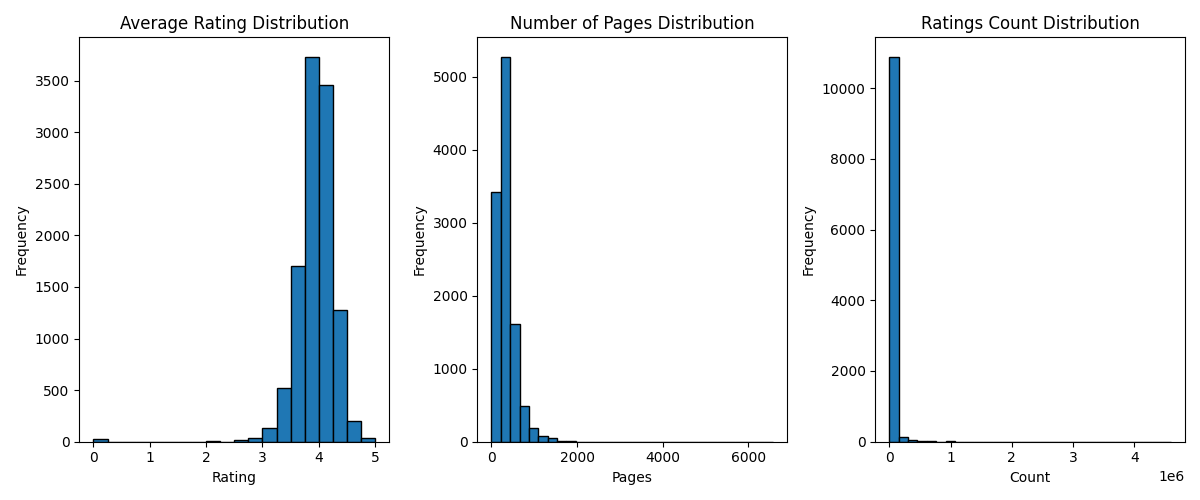
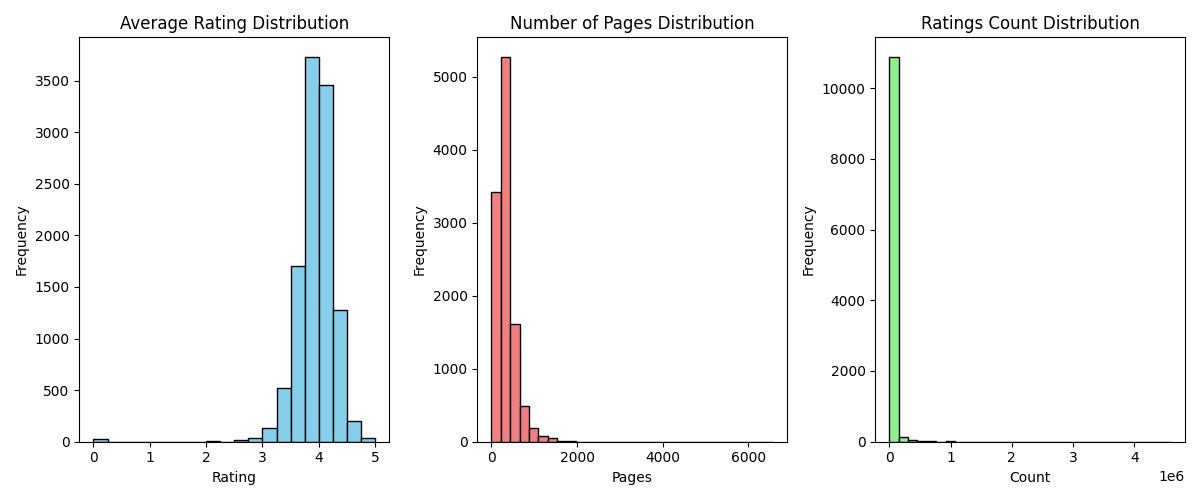
visuals upladed

Changed region(s): [[0.2158, 0.12, 0.3083, 0.9], [0.4008, 0.12, 0.4625, 0.9], [0.74, 0.12, 0.7708, 0.9]]

diff --git a/data_analysis.py b/data_analysis.py
@@ -1,9 +1,7 @@
 import pandas as pd
-import numpy as np
 import matplotlib.pyplot as plt
 import seaborn as sns
 from pathlib import Path
-from scipy import stats
 
 Path('visuals').mkdir(exist_ok=True)
 
@@ -17,174 +15,119 @@ df.columns = df.columns.str.strip()
 
 print("Explanatory Data Analysis - Goodreads Books Dataset")
 
-print("\n Missing Values Analysis")
-
-# Check for 0 values
+# Missing Values Analysis
+print("\nMissing Values Analysis")
 print("\nZero values count:")
 print(df.select_dtypes(include='number').eq(0).sum())
 
 print("\nNaN/Null values count:")
 print(df.isnull().sum())
 
-
+# Histograms Before Cleaning
 plt.figure(figsize=(12, 5))
 
-# Histogram for average_rating
+# Average rating
 plt.subplot(1, 3, 1)
-plt.hist(df['average_rating'], bins=20, edgecolor='black')
+plt.hist(df['average_rating'], bins=20, edgecolor='black', color='skyblue')
 plt.title('Average Rating Distribution')
 plt.xlabel('Rating')
 plt.ylabel('Frequency')
 
-# Histogram for num_pages
+# Number of pages
 plt.subplot(1, 3, 2)
-plt.hist(df['num_pages'], bins=30, edgecolor='black')
+plt.hist(df['num_pages'], bins=30, edgecolor='black', color='lightcoral')
 plt.title('Number of Pages Distribution')
 plt.xlabel('Pages')
 plt.ylabel('Frequency')
 
-# Histogram for ratings_count
+# Ratings count
 plt.subplot(1, 3, 3)
-plt.hist(df['ratings_count'], bins=30, edgecolor='black')
+plt.hist(df['ratings_count'], bins=30, edgecolor='black', color='lightgreen')
 plt.title('Ratings Count Distribution')
 plt.xlabel('Count')
 plt.ylabel('Frequency')
 
 plt.tight_layout()
 plt.savefig('visuals/before_cleaning_distributions.png')
-print("\n Saved: visuals/before_cleaning_distributions.png")
 plt.close()
 
-# Heatmap of zero values Before Cleaning
+# Heatmap of Zero Values Before Cleaning
 plt.figure(figsize=(8, 6))
 sns.heatmap(df.select_dtypes(include='number').eq(0).sum().to_frame(), 
             annot=True, fmt='d', cbar=False, cmap='coolwarm')
 plt.title('Zero Values Heatmap Before Cleaning')
 plt.tight_layout()
 plt.savefig('visuals/zero_values_heatmap.png')
-print("Saved: visuals/zero_values_heatmap.png")
 plt.close()
 
-print("\n Statistical Analysis Before Cleaning")
-
-# 5-number summary for numerical columns
-print("\n5-Number Summary Before Cleaning:")
-print(df[['num_pages', 'average_rating', 'ratings_count']].describe())
-
+# Statistical Analysis Before Cleaning
 num_cols = ['num_pages', 'average_rating', 'ratings_count']
+print("\n5-Number Summary Before Cleaning:")
+print(df[num_cols].describe())
+
 for column in num_cols:
     print(f"\n{column}:")
-    print(f"  Mean: {df[column].mean():.2f}")
-    print(f"  Median: {df[column].median():.2f}")
-    print(f"  Std Dev: {df[column].std():.2f}")
-    print(f"  Skewness: {df[column].skew():.2f}")
-    print(f"  Kurtosis: {df[column].kurtosis():.2f}")
+    print(f"Mean: {df[column].mean():.2f}")
+    print(f"Median: {df[column].median():.2f}")
+    print(f"Std Dev: {df[column].std():.2f}")
+    print(f"Skewness: {df[column].skew():.2f}")
+    print(f"Kurtosis: {df[column].kurtosis():.2f}")
 
-print("\n Outlier Detection")
-
+# Outlier Detection
 def detect_outliers_iqr(data, column):
     Q1 = data[column].quantile(0.25)
     Q3 = data[column].quantile(0.75)
     IQR = Q3 - Q1
     lower_bound = Q1 - 1.5 * IQR
     upper_bound = Q3 + 1.5 * IQR
-
     outliers = data[(data[column] < lower_bound) | (data[column] > upper_bound)]
     return outliers, lower_bound, upper_bound
 
-# Detect Outlier for each column
-for column in ['num_pages', 'ratings_count', 'average_rating']:
+for column in num_cols:
     outliers, lower, upper = detect_outliers_iqr(df[df[column] != 0], column)
     print(f"\n{column}:")
-    print(f"Lower bound: {lower:.2f}")
-    print(f"Upper bound: {upper:.2f}")
+    print(f"Lower bound: {lower:.2f}, Upper bound: {upper:.2f}")
     print(f"Number of outliers: {len(outliers)} ({(len(outliers)/len(df)*100):.2f}%)")
     if len(outliers) > 0:
         print(f"Min outlier value: {outliers[column].min():.2f}")
         print(f"Max outlier value: {outliers[column].max():.2f}")
 
-# Boxplot and zero's removal for Outlier Visualization
-figure, axes = plt.subplots(1, 3, figsize=(15, 5))
-df_no_zeros = df[df['num_pages'] != 0]
-df_no_zeros = df_no_zeros[df_no_zeros['ratings_count'] != 0]
-df_no_zeros = df_no_zeros[df_no_zeros['average_rating'] != 0]
+# Boxplots After Removing Zeros
+df_no_zeros = df.copy()
+for column in num_cols:
+    df_no_zeros = df_no_zeros[df_no_zeros[column] != 0]
 
-axes[0].boxplot(df_no_zeros['num_pages'])
-axes[0].set_title('num_pages Boxplot')
-axes[0].set_ylabel('Pages')
-
-axes[1].boxplot(df_no_zeros['ratings_count'])
-axes[1].set_title('ratings_count Boxplot')
-axes[1].set_ylabel('Count')
-
-axes[2].boxplot(df_no_zeros['average_rating'])
-axes[2].set_title('average_rating Boxplot')
-axes[2].set_ylabel('Rating')
+fig, axes = plt.subplots(1, 3, figsize=(15, 5))
+for i, column in enumerate(num_cols):
+    axes[i].boxplot(df_no_zeros[column])
+    axes[i].set_title(f'{column} Boxplot')
+    axes[i].set_ylabel(column)
 
 plt.tight_layout()
 plt.savefig('visuals/outlier_boxplots.png')
 plt.close()
 
-print("\n Distribution Analysis")
-
-plt.figure(figsize=(15, 5))
-
-plt.subplot(1, 3, 1)
-plt.hist(df['average_rating'], bins=20, edgecolor='black', color='skyblue')
-plt.title('Average Rating Distribution')
-plt.xlabel('Rating')
-plt.ylabel('Frequency')
-plt.axvline(df['average_rating'].mean(), color='red', linestyle='--', label='Mean')
-plt.axvline(df['average_rating'].median(), color='green', linestyle='--', label='Median')
-plt.legend()
-
-plt.subplot(1, 3, 2)
-plt.hist(df[df['num_pages'] != 0]['num_pages'], bins=30, edgecolor='black', color='lightcoral')
-plt.title('Number of Pages Distribution')
-plt.xlabel('Pages')
-plt.ylabel('Frequency')
-plt.axvline(df[df['num_pages'] != 0]['num_pages'].mean(), color='red', linestyle='--', label='Mean')
-plt.axvline(df[df['num_pages'] != 0]['num_pages'].median(), color='green', linestyle='--', label='Median')
-plt.legend()
-
-plt.subplot(1, 3, 3)
-plt.hist(df[df['ratings_count'] != 0]['ratings_count'], bins=30, edgecolor='black', color='lightgreen')
-plt.title('Ratings Count Distribution')
-plt.xlabel('Count')
-plt.ylabel('Frequency')
-plt.axvline(df[df['ratings_count'] != 0]['ratings_count'].mean(), color='red', linestyle='--', label='Mean')
-plt.axvline(df[df['ratings_count'] != 0]['ratings_count'].median(), color='green', linestyle='--', label='Median')
-plt.legend()
-
-plt.tight_layout()
-plt.savefig('visuals/before_cleaning_distributions.png')
-plt.close()
-
-print("\n Correlation Analysis")
-
+# Correlation Analysis
 correlation_matrix = df[['num_pages', 'average_rating', 'ratings_count', 'text_reviews_count']].corr()
 print("\nCorrelation Matrix:")
 print(correlation_matrix.round(3))
 
 plt.figure(figsize=(10, 8))
-sns.heatmap(correlation_matrix, annot=True, fmt='.3f', cmap='coolwarm', 
-            center=0, square=True, linewidths=1)
+sns.heatmap(correlation_matrix, annot=True, fmt='.3f', cmap='coolwarm', center=0, square=True, linewidths=1)
 plt.title('Correlation Heatmap - Numerical Features')
 plt.tight_layout()
 plt.savefig('visuals/correlation_heatmap.png')
 plt.close()
 
-print("\n Categorial Features Analysis")
+# Categorical Features Analysis
+categorical_columns = ['language_code', 'publisher', 'authors']
+for col in categorical_columns:
+    print(f"\n{col}:")
+    print(f"Unique values: {df[col].nunique()}")
+    print("Top 5 most common:")
+    print(df[col].value_counts().head())
 
-category_coloumns = ['language_code', 'publisher', 'authors']
-
-for coloum in category_coloumns:
-    print(f"\n{coloum}:")
-    print(f"Unique values: {df[column].nunique()}")
-    print(f"Top 5 most common:")
-    print(df[column].value_counts().head())
-
-# Language attribute heatmap
+# Language Distribution Plot
 plt.figure(figsize=(12, 6))
 language_counts = df['language_code'].value_counts().head(10)
 plt.bar(language_counts.index, language_counts.values, color='steelblue')
@@ -196,16 +139,12 @@ plt.tight_layout()
 plt.savefig('visuals/language_distribution.png')
 plt.close()
 
-
-print("\n Relationship Analysis")
-
-figure, axes = plt.subplots(1, 2, figsize=(14, 5))
-
+# Relationship Analysis
+fig, axes = plt.subplots(1, 2, figsize=(14, 5))
 axes[0].scatter(df['num_pages'], df['average_rating'], alpha=0.3, s=10)
 axes[0].set_xlabel('Number of Pages')
 axes[0].set_ylabel('Average Rating')
 axes[0].set_title('Pages vs Rating')
-axes[0].set_xlim(0, 1000)
 
 axes[1].scatter(df['ratings_count'], df['average_rating'], alpha=0.3, s=10)
 axes[1].set_xlabel('Ratings Count')
@@ -217,30 +156,25 @@ plt.tight_layout()
 plt.savefig('visuals/feature_relationships.png')
 plt.close()
 
-
-print("\n After Cleaning Comparison")
-
+# After Cleaning Comparison
 try:
     df_cleaned = pd.read_csv('data/books_copy.csv')
-    
     print("\nDataset size comparison:")
-    print(f"  Before: {len(df)} rows")
-    print(f"  After: {len(df_cleaned)} rows")
-    print(f"  Rows removed: {len(df) - len(df_cleaned)} ({((len(df) - len(df_cleaned))/len(df)*100):.2f}%)")
+    print(f"Before: {len(df)} rows")
+    print(f"After: {len(df_cleaned)} rows")
+    print(f"Rows removed: {len(df) - len(df_cleaned)} ({((len(df) - len(df_cleaned))/len(df)*100):.2f}%)")
     
     print("\n5-Number Summary AFTER Cleaning:")
     print(df_cleaned[['num_pages', 'average_rating', 'ratings_count']].describe())
     
-    # Heatmap After cleaning
     plt.figure(figsize=(10, 6))
-    sns.heatmap(df_cleaned.select_dtypes(include='number').eq(0).sum().to_frame(), 
+    sns.heatmap(df_cleaned.select_dtypes(include='number').eq(0).sum().to_frame(),
                 annot=True, fmt='d', cbar=False, cmap='coolwarm')
     plt.title('Zero Values Heatmap After Cleaning')
     plt.ylabel('Columns')
     plt.xlabel('Count of Zero Values')
     plt.tight_layout()
     plt.savefig('visuals/zero_values_heatmap_after.png')
-    print("\nSaved: visuals/zero_values_heatmap_after.png")
     plt.close()
 
 except FileNotFoundError:
